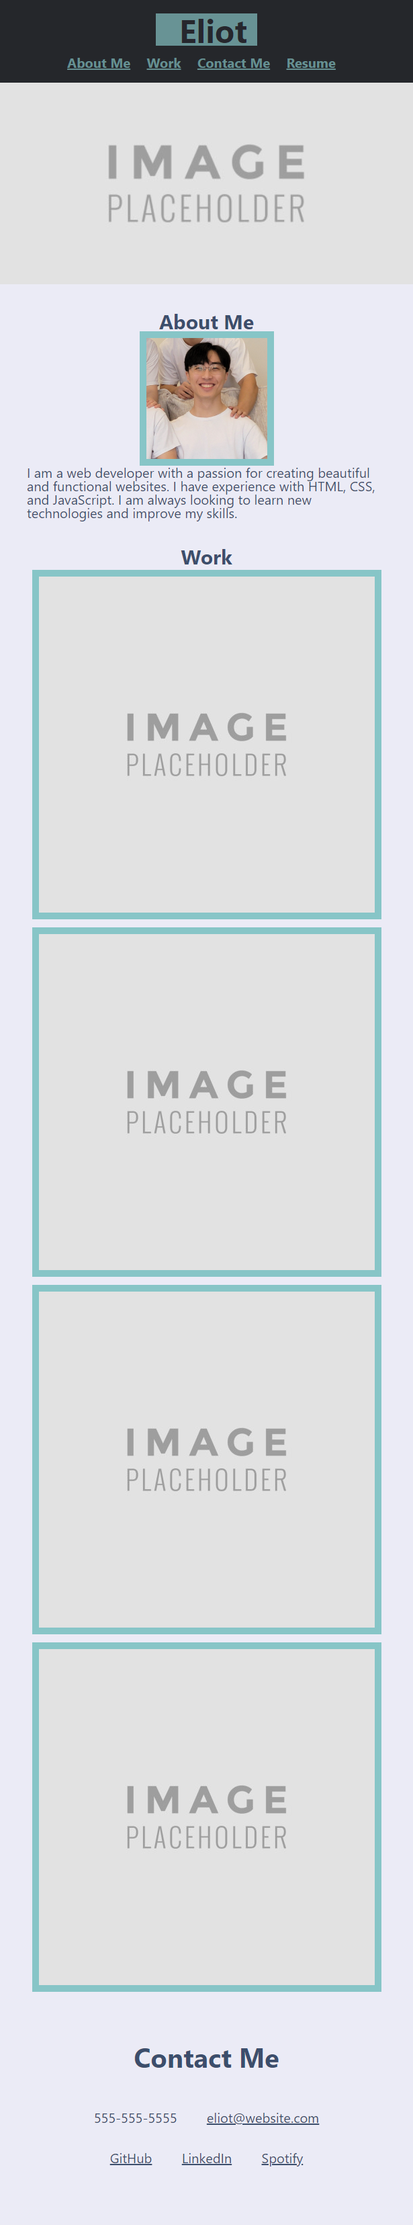
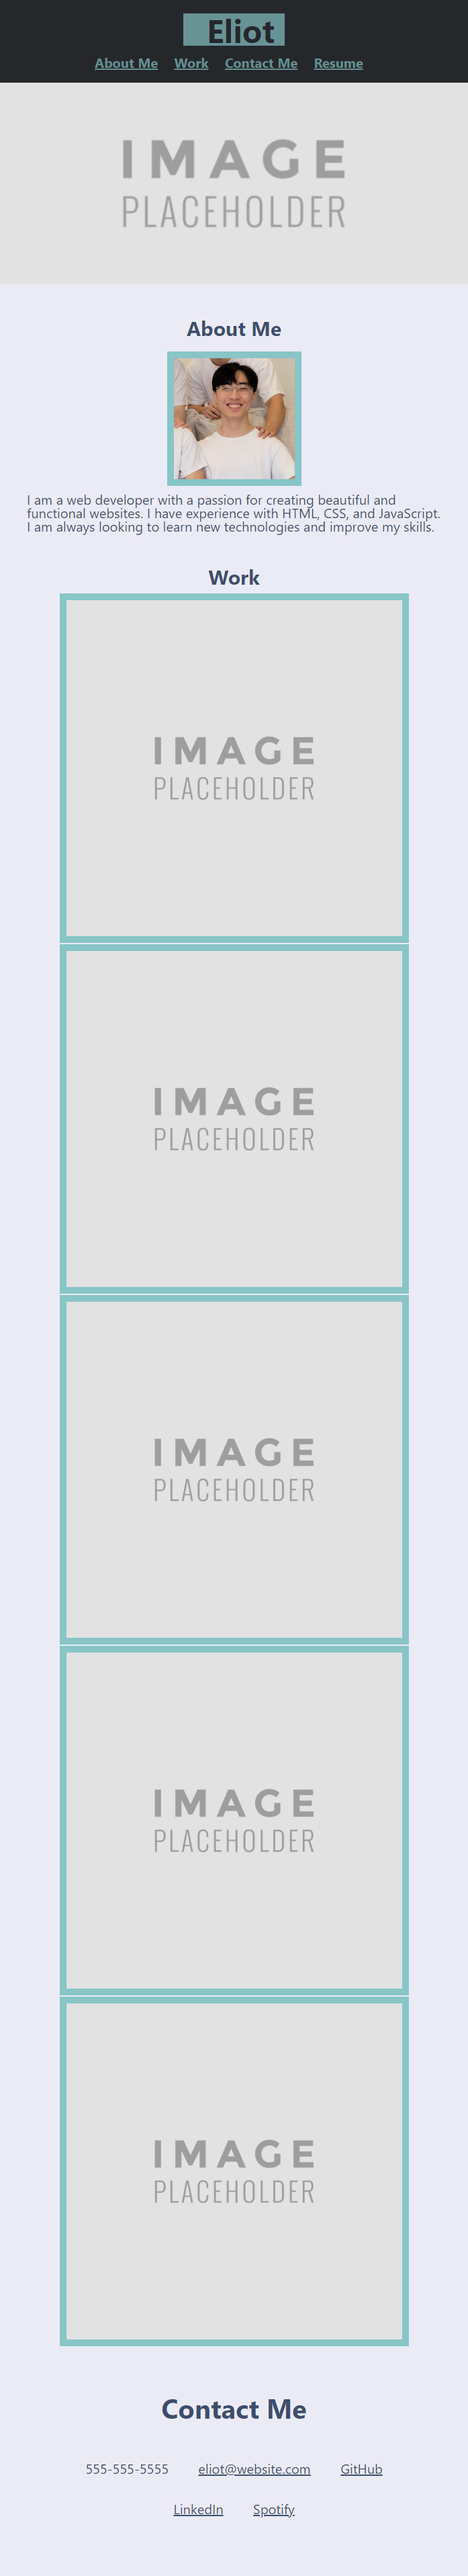
fixed html WORK area to fix project alignments and updated css accordingly. README photo is updated as well

diff --git a/index.html b/index.html
@@ -33,8 +33,8 @@
         />
         <p id="about-p">
           I am a web developer with a passion for creating beautiful and
-          functional websites. I have experience with HTML, CSS, and JavaScript. I am always looking to learn new technologies and improve my
-          skills.
+          functional websites. I have experience with HTML, CSS, and JavaScript.
+          I am always looking to learn new technologies and improve my skills.
         </p>
       </section>
 
@@ -42,38 +42,42 @@
         <div>
           <h2 id="work">Work</h2>
         </div>
+        <div id="project-container">
+          <figure class="main-project">
+            <a href="https://eliotcho.github.io/refactor-html-css/">
+              <img src="./assets/images/project-1.jpg" alt="Main Project" />
+            </a>
+          </figure>
 
-        <div class="work-item">
-          <figure>
-            <a href="https://eliotcho.github.io/refactor-html-css/">
-              <img src="./assets/images/project-1.jpg" alt="Project 1" />
-            </a>
-          </figure>
-          <!-- <h3 id="project-name">Project 1</h3> -->
-        </div>
-        <div class="work-item">
-          <figure>
-            <a href="https://eliotcho.github.io/refactor-html-css/">
-              <img src="./assets/images/project-2.jpg" alt="Project 2" />
-            </a>
-          </figure>
-          <!-- <h3 id="project-name">Project 2</h3> -->
-        </div>
-        <div class="work-item">
-          <figure>
-            <a href="https://eliotcho.github.io/refactor-html-css/">
-              <img src="./assets/images/project-3.jpg" alt="Project 3" />
-            </a>
-          </figure>
-          <!-- <h3 id="project-name">Project 3</h3> -->
-        </div>
-        <div class="work-item">
-          <figure>
-            <a href="https://eliotcho.github.io/refactor-html-css/">
-              <img src="./assets/images/project-4.jpg" alt="Project 4" />
-            </a>
-          </figure>
-          <!-- <h3 id="project-name">Project 4</h3> -->
+          <div class="sub-project">
+            <figure>
+              <a href="https://eliotcho.github.io/refactor-html-css/">
+                <img src="./assets/images/project-1.jpg" alt="Project 1" />
+              </a>
+            </figure>
+            <!-- <h3 id="project-name">Project 1</h3> -->
+
+            <figure>
+              <a href="https://eliotcho.github.io/refactor-html-css/">
+                <img src="./assets/images/project-2.jpg" alt="Project 2" />
+              </a>
+            </figure>
+            <!-- <h3 id="project-name">Project 2</h3> -->
+
+            <figure>
+              <a href="https://eliotcho.github.io/refactor-html-css/">
+                <img src="./assets/images/project-3.jpg" alt="Project 3" />
+              </a>
+            </figure>
+            <!-- <h3 id="project-name">Project 3</h3> -->
+
+            <figure>
+              <a href="https://eliotcho.github.io/refactor-html-css/">
+                <img src="./assets/images/project-4.jpg" alt="Project 4" />
+              </a>
+            </figure>
+            <!-- <h3 id="project-name">Project 4</h3> -->
+          </div>
         </div>
       </section>
     </main>

diff --git a/assets/css/style.css b/assets/css/style.css
@@ -68,22 +68,25 @@ header a:hover {
 #work-section {
   display: flex;
   margin: 40px;
+  justify-content: space-between;
+}
+
+#project-container {
+  display: flex;
+  flex-direction: column;
+  align-items: center;
+}
+
+.main-project {
+  flex: 2 1 100%;
+}
+
+.sub-project {
+  display: flex;
+  flex: 1 1 50%;
   flex-wrap: wrap;
-  align-items: flex-start;
-  align-content: center;
-  justify-content: flex-end;
-}
-
-#work {
-  align-items: stretch;
-  display: inline-block;
-}
-
-.work-item {
-  display: inline-block;
-  flex: 2 1 200px;
-  align-content: center;
-  margin: 5px;
+  justify-content: center;
+  width: 80%;
 }
 
 #project-name {
@@ -171,6 +174,22 @@ footer a:hover {
   #work-section {
     flex-direction: column;
     align-items: center;
+  }
+
+  .main-project {
+    align-items: center;
+    flex: 1 1 100%;
+  }
+
+  .sub-project {
+    flex-direction: column;
+    align-items: center;
+    flex: 1 1 100%;
+    align-content: center;
+  }
+
+  #about, #work, #me {
+    margin: 10px;
   }
   #about-section {
     flex-direction: column;
